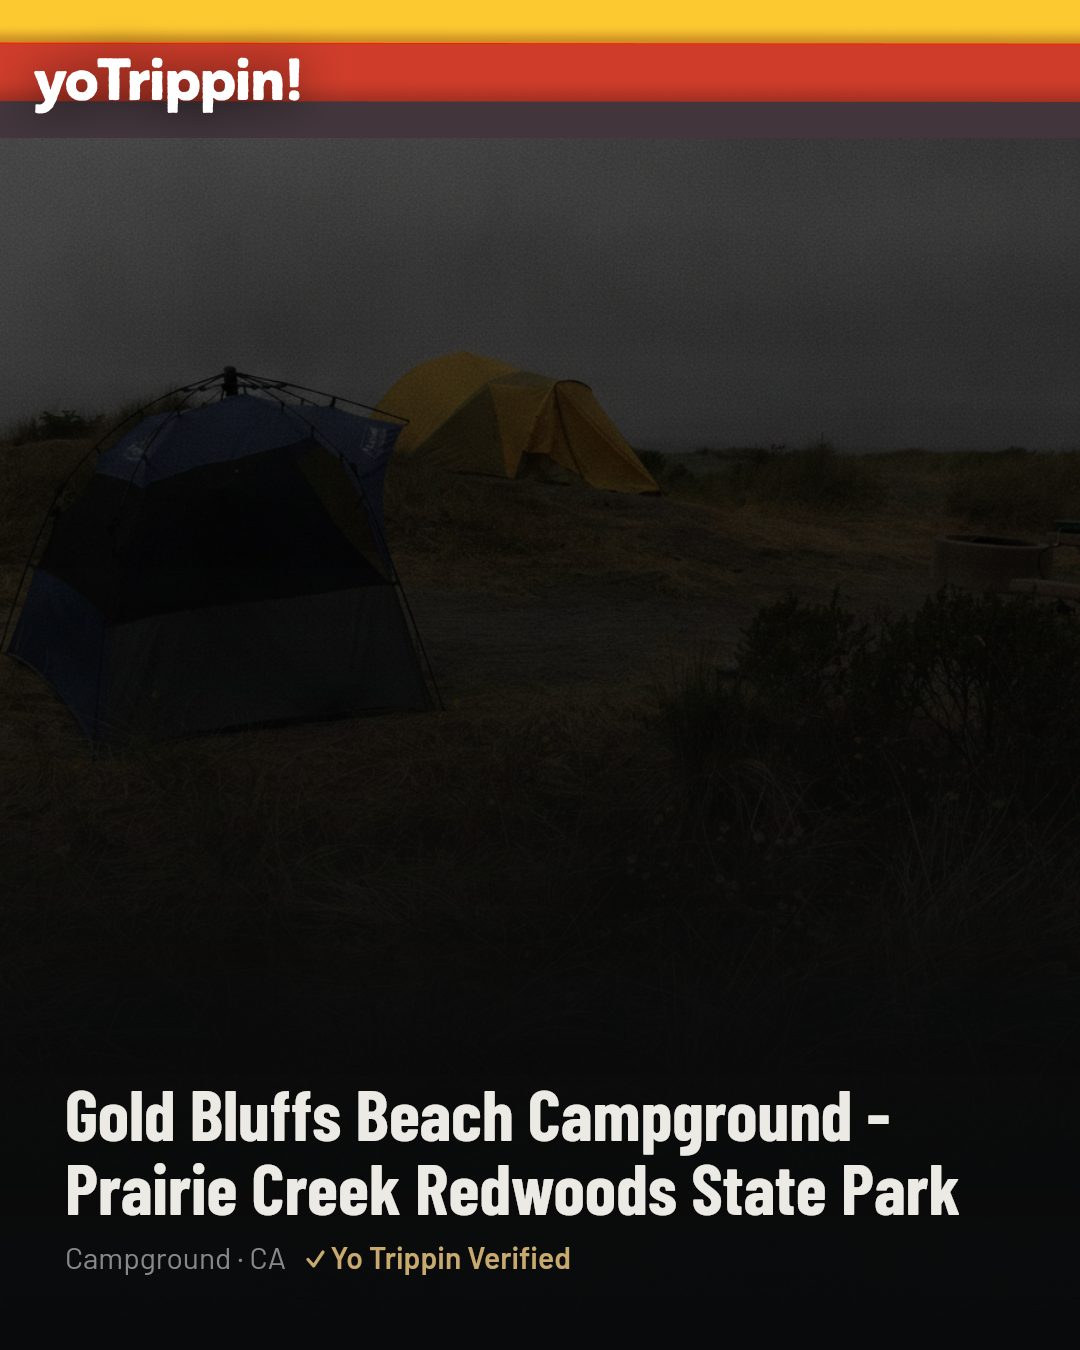
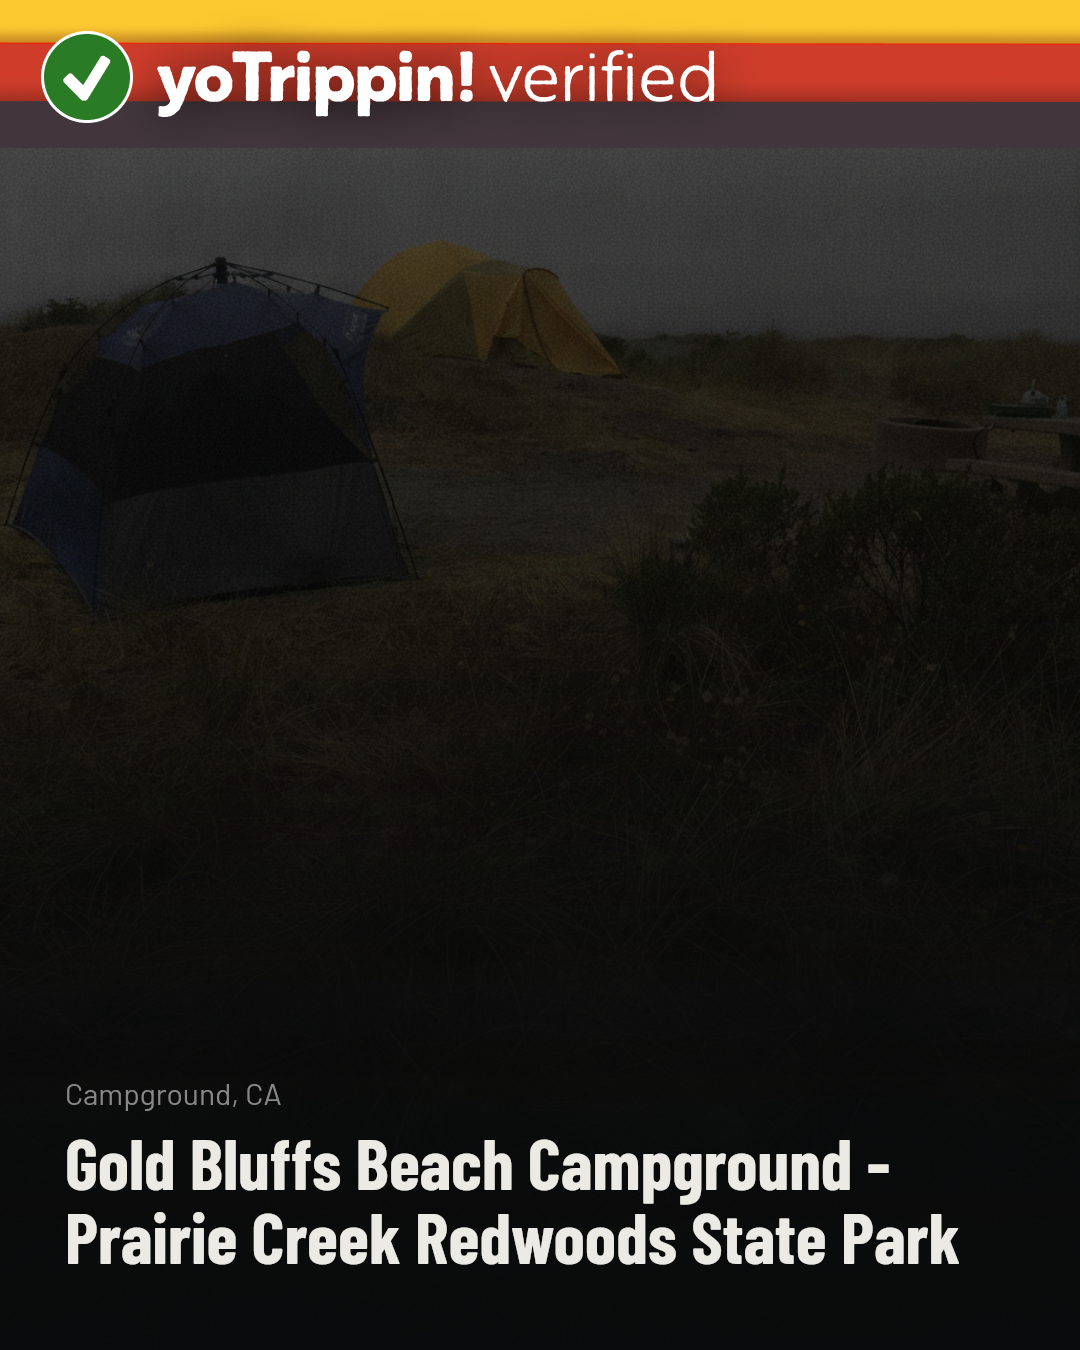
feat(data): Pin of the Week — header verified badge + caption-bar reorder
Three changes per the new reference mockup:

1. HEADER verified badge — the green-circle white-checkmark + "verified"
   treatment ALREADY EXISTS in the real branding.png asset (the operator
   updated it to 1080x148 with the badge baked in). So this is NOT built as
   fresh UI — re-bundled brand/header.png from the updated asset; it matches
   the reference exactly because it is the reference asset.
2. BOTTOM caption bar — removed the "✓ Yo Trippin Verified" line (redundant
   with the header badge). Dropped drawCheck() and overlayText.verified.
3. BOTTOM caption bar — reordered so the subline ("Campground, CA") sits
   ABOVE the title; same fonts/styling. Also switched the separator from "·"
   to "," to match the reference + the task's phrasing (flagged).

Photo underexposure remains the known base-treatment issue (flagged prior
pass, still deferred).

Re-rendered Gold Bluffs Beach end-to-end (billed key, TEST) and visually
inspected against the reference: badge + "verified" present, bottom "Verified"
line gone, category/state above the title. 25 unit tests + data typecheck pass.
Supersedes #411. TEST-only, no PROD writes.

Changed region(s): [[0.0611, 0.8089, 0.8861, 0.9644], [0.0, 0.1867, 1.0, 0.3422], [0.0306, 0.0, 0.6722, 0.0933]]

diff --git a/data/pin-of-the-week/composite.ts b/data/pin-of-the-week/composite.ts
@@ -102,7 +102,9 @@ export async function compositePost(opts: CompositeOptions): Promise<Buffer> {
   // 3. Real brand header asset, full-width across the top.
   await drawHeader(ctx, W);
 
-  // 4. Caption block — bottom-anchored: wrapped title, subline + verified.
+  // 4. Caption block — bottom-anchored. Order (top→bottom): subline, then title.
+  // (The "Verified" line was removed — verification now lives in the header
+  // badge; and the subline sits ABOVE the title, per the reference mockup.)
   const titleSize = Math.round(W * 0.066);
   const titleLine = Math.round(titleSize * 1.04);
   const subSize = Math.round(W * 0.028);
@@ -115,8 +117,14 @@ export async function compositePost(opts: CompositeOptions): Promise<Buffer> {
   ctx.font = `700 ${titleSize}px "Barlow Condensed"`;
   const titleLines = wrapText(ctx, opts.overlayText.title, maxTextWidth);
 
-  const blockH = titleLines.length * titleLine + gapSub + subSize;
+  const blockH = subSize + gapSub + titleLines.length * titleLine;
   let y = H - bottomPad - blockH;
+
+  // subline (ABOVE the title): muted "Category, ST"
+  ctx.font = `400 ${subSize}px "Barlow"`;
+  ctx.fillStyle = colors.textMuted;
+  ctx.fillText(opts.overlayText.subline, PAD, y);
+  y += subSize + gapSub;
 
   // title
   ctx.fillStyle = colors.textPrimary;
@@ -125,19 +133,6 @@ export async function compositePost(opts: CompositeOptions): Promise<Buffer> {
     ctx.fillText(line, PAD, y);
     y += titleLine;
   }
-  y += gapSub - (titleLine - titleSize);
-
-  // subline: muted "Category · ST", then amber check + "Yo Trippin Verified"
-  ctx.font = `400 ${subSize}px "Barlow"`;
-  ctx.fillStyle = colors.textMuted;
-  ctx.fillText(opts.overlayText.subline, PAD, y);
-  const subW = ctx.measureText(opts.overlayText.subline).width;
-
-  const markX = PAD + subW + Math.round(W * 0.02);
-  drawCheck(ctx, markX, y + subSize * 0.55, subSize * 0.5, colors.amber);
-  ctx.fillStyle = colors.amber;
-  ctx.font = `600 ${subSize}px "Barlow SemiBold"`;
-  ctx.fillText(opts.overlayText.verified.replace(/^✓\s*/, ""), markX + subSize * 0.75, y);
 
   return canvas.toBuffer("image/png");
 }
@@ -156,19 +151,4 @@ async function drawHeader(ctx: SKRSContext2D, W: number): Promise<void> {
   } catch {
     // header asset absent — leave the composite without a header
   }
-}
-
-/** Small vector checkmark (avoids missing-glyph boxes for ✓). */
-function drawCheck(ctx: SKRSContext2D, x: number, cy: number, size: number, color: string): void {
-  ctx.save();
-  ctx.strokeStyle = color;
-  ctx.lineWidth = Math.max(2, size * 0.22);
-  ctx.lineCap = "round";
-  ctx.lineJoin = "round";
-  ctx.beginPath();
-  ctx.moveTo(x, cy);
-  ctx.lineTo(x + size * 0.38, cy + size * 0.42);
-  ctx.lineTo(x + size, cy - size * 0.5);
-  ctx.stroke();
-  ctx.restore();
 }

diff --git a/data/pin-of-the-week/image-prompt.ts b/data/pin-of-the-week/image-prompt.ts
@@ -20,7 +20,6 @@ export interface ImagePromptSpec {
   overlayText: {
     title: string;
     subline: string;
-    verified: string;
   };
 }
 
@@ -48,16 +47,17 @@ function categoryLabel(cat: string): string {
 
 export function composeImagePrompt(candidate: EvaluatedCandidate): ImagePromptSpec {
   const label = categoryLabel(candidate.primary_category);
-  const subline = candidate.state ? `${label} · ${candidate.state}` : label;
-  const verified = candidate.signals.hasOfficialSource ? "✓ Yo Trippin Verified" : "Yo Trippin Pick";
+  // "Category, State" (comma) to match the reference mockup + the task's own
+  // phrasing. The verification signal is no longer shown here — it lives in the
+  // header badge — so hasOfficialSource is not needed for a caption line.
+  const subline = candidate.state ? `${label}, ${candidate.state}` : label;
 
   // Text carried to the deterministic compositor — NOT sent to the model.
   // The title is the real place name straight from the SELECT row. (The brand
-  // wordmark lives in the real header asset composited on top — not here.)
+  // wordmark + verified badge live in the real header asset composited on top.)
   const overlayText = {
     title: candidate.canonical_name,
     subline,
-    verified,
   };
 
   return {

diff --git a/data/pin-of-the-week/composite.test.ts b/data/pin-of-the-week/composite.test.ts
@@ -42,8 +42,7 @@ describe("compositePost", () => {
       dimensions: { width: 1080, height: 1350 },
       overlayText: {
         title: "Gold Bluffs Beach Campground - Prairie Creek Redwoods State Park",
-        subline: "Campground · CA",
-        verified: "✓ Yo Trippin Verified",
+        subline: "Campground, CA",
       },
     });
     // PNG signature
@@ -65,7 +64,7 @@ describe("compositePost", () => {
     const out = await compositePost({
       baseImage: Buffer.from("not an image"),
       dimensions: { width: 200, height: 250 },
-      overlayText: { title: "T", subline: "S", verified: "V" },
+      overlayText: { title: "T", subline: "S" },
     });
     expect(out.readUInt32BE(16)).toBe(200);
     expect(out.readUInt32BE(20)).toBe(250);

diff --git a/docs/content/pin-of-the-week.md b/docs/content/pin-of-the-week.md
@@ -167,10 +167,11 @@ stages were **visually inspected** against `DESIGN.md`. Samples:
   **exactly** as the source row — the PR #407 garbling is gone. *Literal /
   visually verified.*
 - **Title typography exact** — Barlow Condensed 700 title (wrapped to two lines),
-  Barlow subline, amber accent used *accent-only* (vector check + "Verified").
-  *Literal / visually verified.*
-- **Bottom caption bar unchanged** — near-black scrim, caption in the lower
-  third, 4:5 portrait (1080×1350). *Literal / visually verified.*
+  Barlow subline. *Literal / visually verified.*
+- **Bottom caption bar** — near-black scrim, caption in the lower third, 4:5
+  portrait (1080×1350). Order is **subline ("Category, State") ABOVE the title**;
+  the standalone "Verified" line was removed (verification is in the header
+  badge now). *Literal / visually verified.*
 
 #### Brand header — the REAL asset (2026-09-10, corrected)
 
@@ -179,16 +180,21 @@ recreation. Earlier passes approximated the bands with hex guesses and a
 stand-in rounded font (Baloo 2); that has been **removed entirely**.
 
 - **Source asset** `assets/socailmedia/branding.png` (folder misspelled
-  "socailmedia"; the `assets/social media/` path does **not** exist). The file
-  was **replaced by the operator** with a **1080×138 horizontal header strip**
-  (the earlier version was a 2160×544 diagonal banner). Its real content, sampled
-  directly: a **yellow** band (`#fdc930`) on top, a **coral/brick-red** band
-  (`#cf3c2a`) with the white **"yoTrippin!"** wordmark left-aligned, and a **dark**
-  strip (`#42363c`) at the bottom. *Confidence: literal / pixel-sampled.*
+  "socailmedia"; the `assets/social media/` path does **not** exist). The operator
+  has iterated on it; the current version is a **1080×148 horizontal header
+  strip** that now includes the **verified badge** — a **green filled circle with
+  a white checkmark** left of the **"yoTrippin!"** wordmark, followed by
+  **"verified"** in a lighter weight. Bands: **yellow** (`#fdc930`),
+  **coral/brick-red** (`#cf3c2a`), **dark** strip (`#42363c`). *Confidence:
+  literal / pixel-sampled + visually verified.*
+- **The badge + "verified" are part of the real asset — NOT built as fresh UI.**
+  The checkmark circle and "verified" text are baked into `branding.png`, so they
+  match the reference exactly (they are the reference asset). *Confidence: literal
+  / visually verified.*
 - It is bundled at `brand/header.png` and drawn full-width across the top
-  (`drawHeader` in `composite.ts`), preserving aspect (1080-wide → 138 tall).
-  Because it is the real image, the **colors and wordmark/font are exact, not
-  approximated**. *Confidence: literal / visually verified.*
+  (`drawHeader` in `composite.ts`), preserving aspect (1080-wide → 148 tall).
+  Because it is the real image, the **colors, wordmark, badge, and font are exact,
+  not approximated**. *Confidence: literal / visually verified.*
 - This replaced the old "PIN OF THE WEEK" kicker and every prior approximated
   header. The removed pieces: the from-scratch `drawHeader` bands + `BRAND.header`
   hexes, the Baloo 2 font (`Baloo2-VF.ttf`), and the interim PNG-extraction path
